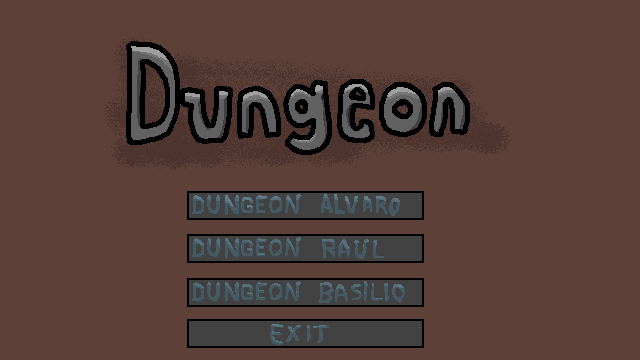
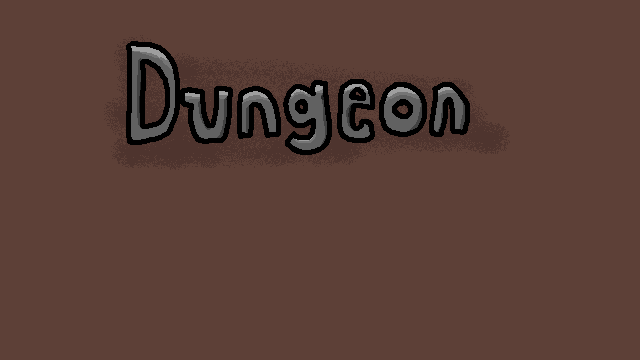
Ultima update y a dormir

diff --git a/Dungeon/core/src/main/java/com/dungeonsa/Pantallas/PantallaMenuPrincipal.java b/Dungeon/core/src/main/java/com/dungeonsa/Pantallas/PantallaMenuPrincipal.java
@@ -3,15 +3,38 @@ package com.dungeonsa.Pantallas;
 import com.badlogic.gdx.Gdx;
 import com.badlogic.gdx.Input;
 import com.badlogic.gdx.graphics.Texture;
+import com.badlogic.gdx.math.Rectangle;
+import com.badlogic.gdx.math.Vector2;
+import com.dungeonsa.Juego;
 
 public class PantallaMenuPrincipal extends Pantalla{
-	private Texture fondo;
+	private Texture fondo,boton1,boton2,boton3,boton4;
+	private Vector2 Pboton1,Pboton2,Pboton3,Pboton4;
+	private Rectangle Aboton1,Aboton2,Aboton3,Aboton4;
 
 	public PantallaMenuPrincipal() {
 		super();
+		am.load("boton1.png",Texture.class);
+		am.load("boton2.png",Texture.class);
+		am.load("boton3.png",Texture.class);
+		am.load("boton4.png",Texture.class);
 		am.load("Menu.png",Texture.class);
 		am.finishLoading();
 		fondo=am.get("Menu.png");
+		boton1=am.get("boton1.png");
+		boton2=am.get("boton2.png");
+		boton3=am.get("boton3.png");
+		boton4=am.get("boton4.png");
+		//Ubicar botones
+		Pboton1=new Vector2(Juego.ANCHO/2-boton1.getWidth()/2,Juego.ALTO/10*5-boton1.getHeight()/2);
+		Pboton2=new Vector2(Juego.ANCHO/2-boton2.getWidth()/2,Juego.ALTO/10*4-boton2.getHeight()/2);
+		Pboton3=new Vector2(Juego.ANCHO/2-boton3.getWidth()/2,Juego.ALTO/10*3-boton3.getHeight()/2);
+		Pboton4=new Vector2(Juego.ANCHO/2-boton4.getWidth()/2,Juego.ALTO/10*2-boton4.getHeight()/2);
+		//Definir areas de interaccion
+		Aboton1=new Rectangle((int)Pboton1.x,(int)Pboton1.y,boton1.getWidth(),boton1.getHeight());
+		Aboton2=new Rectangle((int)Pboton2.x,(int)Pboton2.y,boton2.getWidth(),boton2.getHeight());
+		Aboton3=new Rectangle((int)Pboton3.x,(int)Pboton3.y,boton3.getWidth(),boton3.getHeight());
+		Aboton4=new Rectangle((int)Pboton4.x,(int)Pboton4.y,boton4.getWidth(),boton4.getHeight());
 	}
 
 	@Override
@@ -26,7 +49,18 @@ public class PantallaMenuPrincipal extends Pantalla{
 		}else if(Gdx.input.isKeyJustPressed(Input.Keys.NUM_2)){
 			juego.cambiarPantalla(this,new PantallaRome());
 		}else if(Gdx.input.isKeyJustPressed(Input.Keys.NUM_3)){
-		juego.cambiarPantalla(this,new PantallaBasilio());
+			juego.cambiarPantalla(this,new PantallaBasilio());
+		}else if(Gdx.input.justTouched()){
+			Vector2 puntoClick=juego.getVista().unproject(new Vector2(Gdx.input.getX(),Gdx.input.getY()));
+			if(Aboton1.contains(puntoClick.x, puntoClick.y)){
+				juego.cambiarPantalla(this,new PantallaRome());
+			}else if(Aboton2.contains(puntoClick.x, puntoClick.y)){
+				juego.cambiarPantalla(this,new Pantalladev());
+			}else if(Aboton3.contains(puntoClick.x, puntoClick.y)){
+				juego.cambiarPantalla(this,new PantallaBasilio());
+			}else if(Aboton4.contains(puntoClick.x,puntoClick.y)){
+
+			}
 		}
 	}
 	@Override
@@ -38,6 +72,10 @@ public class PantallaMenuPrincipal extends Pantalla{
 	public void dibujar(float delta) {
 		sb.begin();
 		sb.draw(fondo,0,0,juego.getAncho(),juego.getAlto());
+		sb.draw(boton1,Pboton1.x,Pboton1.y);
+		sb.draw(boton2,Pboton2.x,Pboton2.y);
+		sb.draw(boton3,Pboton3.x,Pboton3.y);
+		sb.draw(boton4,Pboton4.x,Pboton4.y);
 		sb.end();
 	}
 
